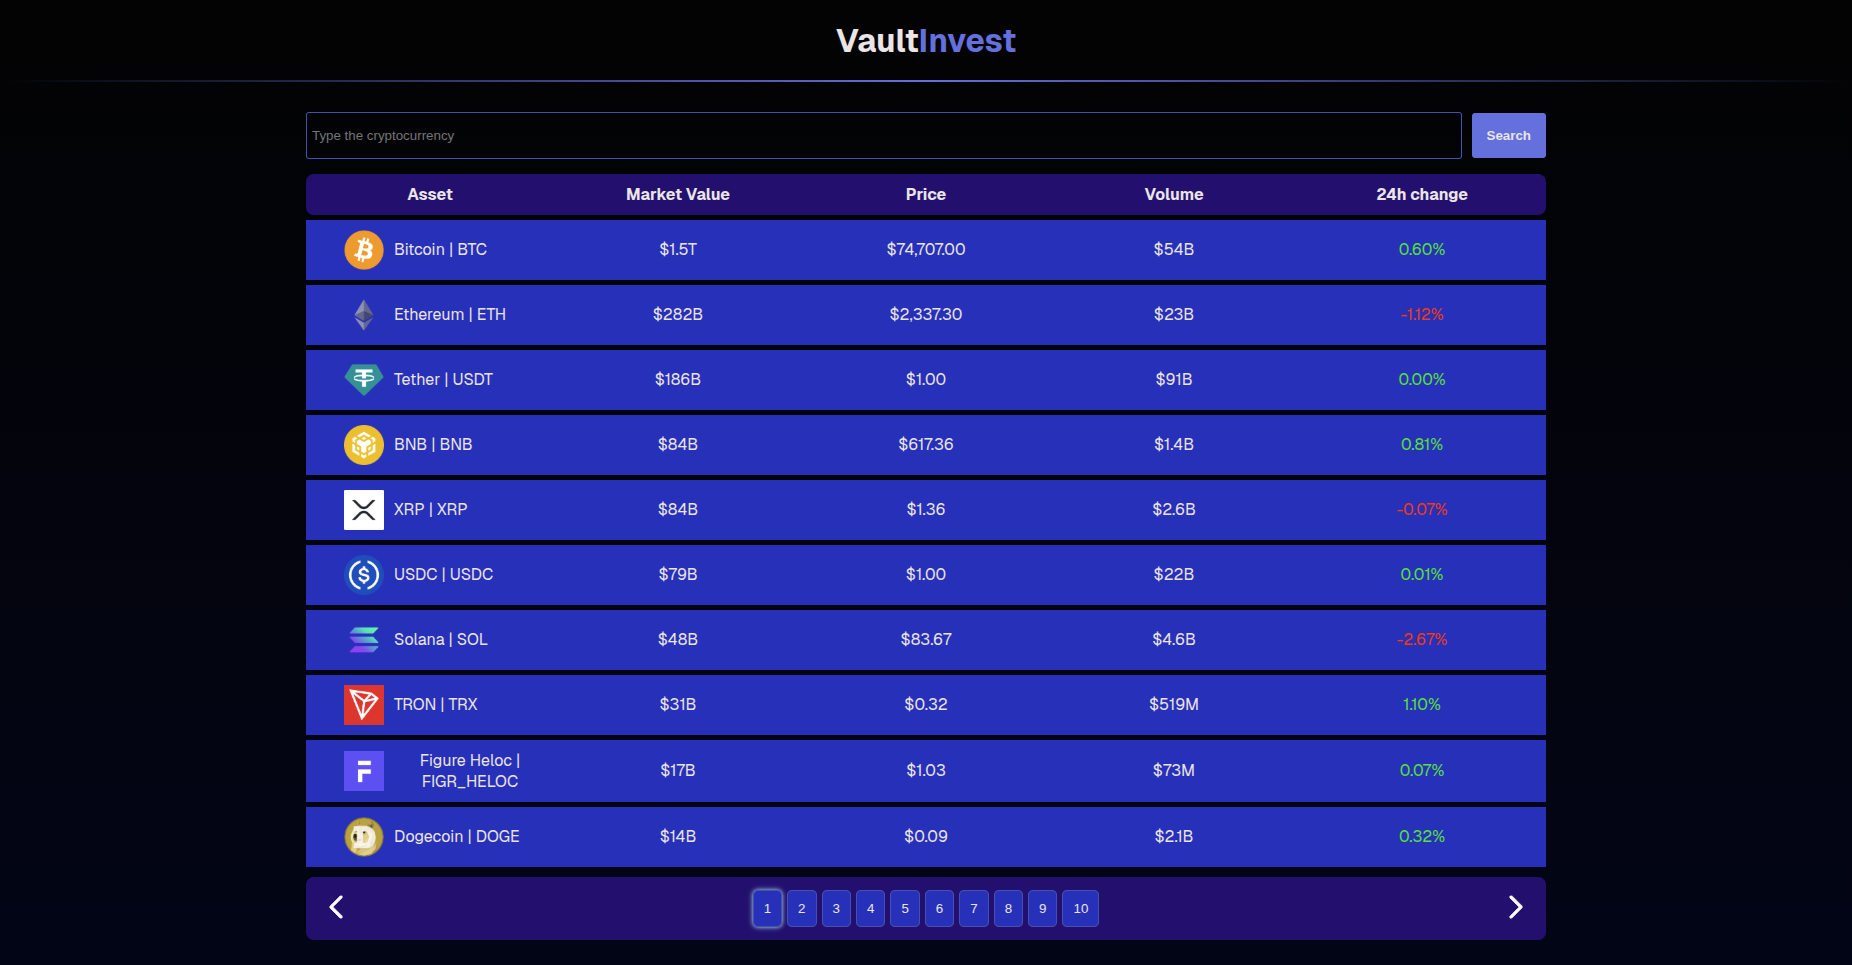
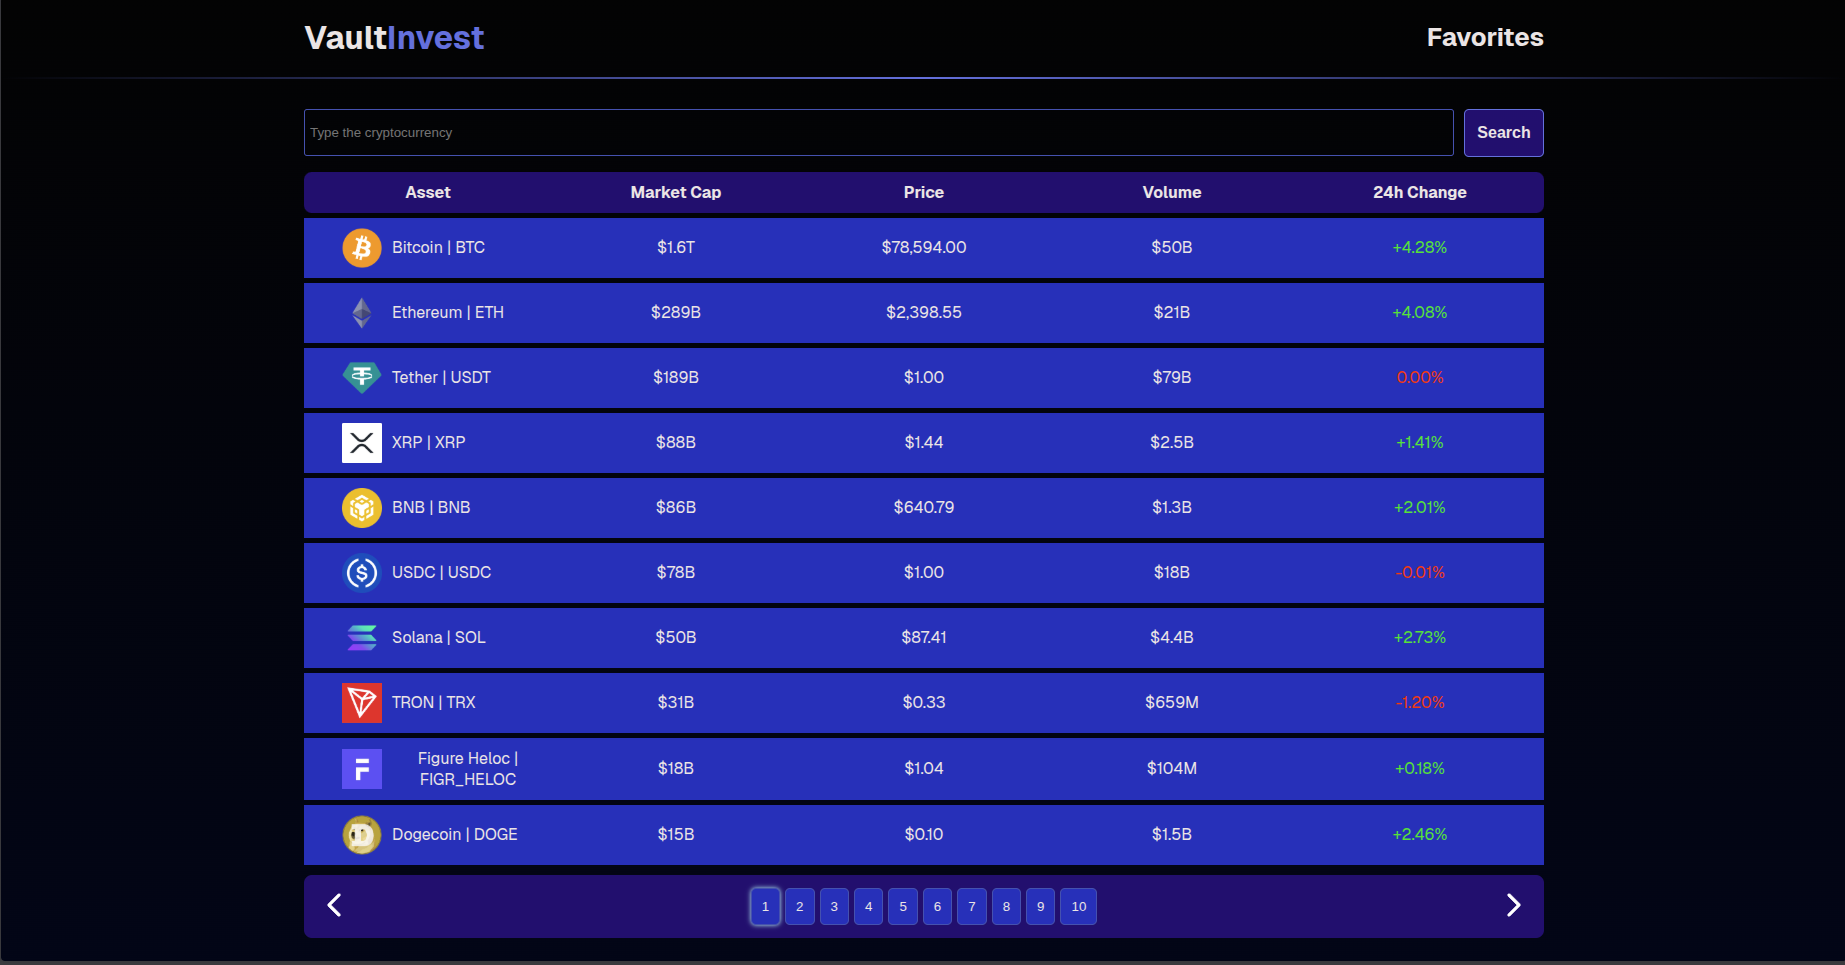
docs: add project screenshots and update README.md

diff --git a/README.md b/README.md
@@ -11,7 +11,7 @@ The project was developed as a robust Single Page Application (SPA), prioritizin
 
 The application allows users to view an organized list of digital assets, including current prices, market cap, and 24h variations. The project is structured as a high-performance Single Page Application (SPA) utilizing Vite as the build tool.
 
-A significant technical highlight is the inclusion of **unit tests**, ensuring component reliability and correct data rendering, alongside rigorous error handling to manage the API's Rate Limiting constraints.
+A significant technical highlight is the inclusion of **comprehensive unit and UI tests**, ensuring component reliability, alongside rigorous error handling to manage the API's Rate Limiting constraints and browser storage limits.
 
 ## 🔄 Evolution & Key Improvements
 
@@ -21,42 +21,52 @@ The **VaultInvest** represents a significant upgrade over its predecessor, [Cryp
 
 The most critical milestone of this project is the introduction of a comprehensive testing suite. Unlike the previous version, VaultInvest utilizes **Vitest** and **React Testing Library** to ensure component reliability and data integrity.
 
+- **Custom Hook Testing:** Isolated business logic testing for state management and browser storage limits (QuotaExceededError).
 - **Code Coverage:** Implementation of automated reports (`npm run test:coverage`) to monitor and maintain high quality across the business logic.
 - **Reliability:** Unit tests now guarantee that core features, such as search and pagination, remain functional after new updates.
 
-### 2. Software Architecture & Separation of Concerns
+### 2. State Management & Data Persistence
 
-Inspired by **Clean Architecture** principles, the project structure was reorganized to be modular and maintainable:
+Introduced a robust, custom-built solution for saving favorite assets.
+
+- **Custom Hooks (`useFavorites`):** Centralized logic to manage user preferences using the browser's `localStorage`.
+- **API Batch Fetching:** The favorites dashboard uses a single API request with multiple IDs, minimizing network load and avoiding unnecessary rate limits.
+
+### 3. Software Architecture & Separation of Concerns
+
+Inspired by **Clean Architecture** principles, the project structure was reorganized:
 
 - **`src/service/`**: Isolated layer for HTTP communication, decoupling API calls from components.
+- **`src/hooks/`**: Reusable logic and state management.
 - **`src/types/`**: Centralized TypeScript interfaces to ensure strict type safety across the entire application.
 - **`src/utils/`**: Dedicated directory for pure utility functions (currency formatting), keeping the UI logic clean.
 
-### 3. Modernized Tech Stack & Ecosystem
+### 4. Modernized Tech Stack & Ecosystem
 
 Upgraded to high-performance libraries to improve both user experience and bundle efficiency:
 
 - **Notifications:** Replaced _React Toastify_ with **Sonner** for a more lightweight, performant, and elegant toast management.
 - **Iconography:** Migrated from _React Icons_ to **Lucide React**, ensuring a consistent and tree-shakeable icon set.
 
-### 4. Data Fetching & Security
+### 5. Data Fetching & Security
 
 Improved handling of external data:
 
-- **API Transition:** Switched to **CoinGecko API** for more robust and detailed market data points.
+- **API Transition:** Switched to **CoinGecko API**.
 - **Resilience:** Implemented explicit logic for **HTTP 429 (Rate Limiting)**, ensuring the user receives clear, non-intrusive feedback when API limits are reached.
 
-### 5. Advanced SEO
+### 6. Advanced SEO
 
 Implemented a robust SEO strategy using semantic HTML and metadata optimization, significantly improving search engine indexing and social media shareability compared to the initial version.
 
 ## ✨ Features
 
 - **Current Data Querying:** Cryptocurrency listing with data fetched directly from the CoinGecko API.
-- **Functional Pagination:** Navigation between different asset pages to optimize loading times and performance.
-- **Coin Details:** Provides in-depth information about individual cryptocurrencies, such as descriptions, images, and market data.
+- **Favorites Dashboard:** Save coins to a personal dashboard stored locally, fetching real-time prices upon visit.
+- **Functional Pagination:** Navigation between different asset pages.
+- **Coin Details:** Provides in-depth information about individual cryptocurrencies, such as images, and market data.
 - **Asset Search:** Search bar for quickly locating specific coins.
-- **Error Handling (Rate Limit):** Visual feedback via **Sonner** in case the API request limit is reached (Error 429).
+  **Error Handling (Rate Limit & Storage):** Visual feedback via **Sonner** in case the API request limit is reached (Error 429) or browser memory is full.
 - **SEO:** Use of metadata to improve site indexing and shareability.
 - **Responsive Interface:** Fully adaptable layout for mobile and desktop devices using CSS Modules.
 
@@ -137,9 +147,11 @@ src/
 │ ├── NavigationBar/   # Pagination and navigation controls
 │ ├── SearchBar/       # Asset search input
 │ └── TableTrElements/ # Crypto table row components
+├── hooks/             # Custom React Hooks (useFavorites)
 ├── pages/             # Main application pages (Views)
-│ ├── CryptoDetails/   # Specific details for a coin
 │ ├── Home/            # Main asset listing
+│ ├── CryptoDetails/   # Specific details for a coin
+│ ├── Favorites/       # User's saved cryptocurrencies dashboard
 │ └── NotfoundPage/    # 404 error page
 ├── service/           # Service layer and API integration
 │ └── getCryptoData/   # HTTP calls to CoinGecko
@@ -156,3 +168,4 @@ src/
 ![Alt text](public/imgs/vault1.png)
 ![Alt text](public/imgs/vault2.png)
 ![Alt text](public/imgs/vault3.png)
+![Alt text](public/imgs/vault4.png)
